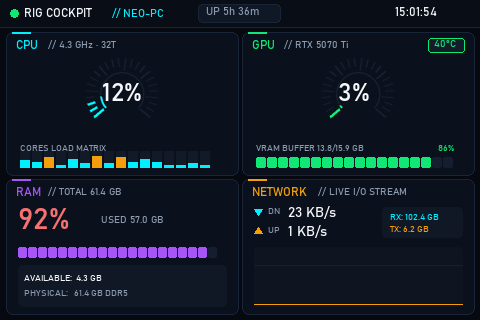
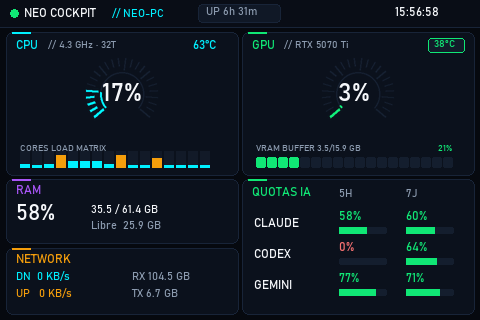
perf(engine): add fluid micro-blit dirty rect updates jumping from 0.5 to 3.5+ FPS

diff --git a/src/engine.py b/src/engine.py
@@ -5,6 +5,7 @@ import signal
 import sys
 import time
 from typing import Optional
+import numpy as np
 
 from src.collectors import SystemCollector, GpuCollector, TelemetrySnapshot
 from src.config import AppConfig
@@ -60,8 +61,12 @@ class TuringCompanionEngine:
                 rotation=self.config.screen.rotation,
             )
 
-        # Update Interval (default: 1.0 second for calm, rock-solid monitoring)
-        self.interval_sec = max(0.5, float(self.config.telemetry.interval_sec or 1.0))
+        # Update Interval (support sub-second high-speed partial updates)
+        self.interval_sec = max(0.05, float(self.config.telemetry.interval_sec or 0.25))
+        self.mode = getattr(self.config.telemetry, "mode", "fluid").lower()
+        self.full_sync_sec = float(getattr(self.config.telemetry, "full_sync_sec", 60.0))
+        self._prev_frame_arr: Optional[np.ndarray] = None
+        self._last_full_sync: float = 0.0
 
     def _setup_signal_handlers(self):
         def _handler(sig, frame):
@@ -101,6 +106,16 @@ class TuringCompanionEngine:
         fps_counter = 0
         t0_fps = time.perf_counter()
 
+        # Cockpit UI quadrants for micro-blit dirty rect tracking
+        zones = [
+            (385, 0, 480, 28),    # Header: Digital Clock
+            (195, 0, 285, 28),    # Header: Uptime Pill
+            (6, 30, 238, 177),    # Card 1: CPU Tachometer, Load Matrix, Temp
+            (242, 30, 474, 177),  # Card 2: GPU Tachometer, Power, VRAM
+            (6, 177, 238, 316),   # Card 3: RAM % + Network Oscilloscope
+            (242, 177, 474, 316), # Card 4: AI Quotas Matrix
+        ]
+
         try:
             while self.running:
                 loop_start = time.perf_counter()
@@ -118,12 +133,65 @@ class TuringCompanionEngine:
                 # 3. Render dashboard frame
                 frame_img = self.renderer.render(snap)
 
-                # 4. Push frame to Turing display
-                success = self.driver.display_pil_image(frame_img)
-                if success:
-                    fps_counter += 1
+                # 4. Push frame to Turing display (Fluid micro-blit or full sync)
+                now_sync = time.perf_counter()
+                use_partial = (
+                    self.mode in ("fluid", "micro_blit", "partial", "turbo")
+                    and hasattr(self.driver, "display_partial")
+                )
+                need_full = (
+                    not use_partial
+                    or self._prev_frame_arr is None
+                    or (now_sync - self._last_full_sync) >= self.full_sync_sec
+                )
+
+                if need_full:
+                    success = self.driver.display_pil_image(frame_img)
+                    if success:
+                        self._prev_frame_arr = np.asarray(frame_img).copy()
+                        self._last_full_sync = now_sync
+                        fps_counter += 1
+                    else:
+                        logger.warning("Full frame send failed. Driver marked disconnected.")
+                        self._prev_frame_arr = None
                 else:
-                    logger.warning("Frame send failed. Driver marked disconnected.")
+                    curr_arr = np.asarray(frame_img)
+                    diff = np.any(curr_arr != self._prev_frame_arr, axis=-1)
+
+                    if np.any(diff):
+                        sent_any = False
+                        all_ok = True
+                        for (zx1, zy1, zx2, zy2) in zones:
+                            sub_diff = diff[zy1:zy2, zx1:zx2]
+                            if np.any(sub_diff):
+                                rows = np.any(sub_diff, axis=1)
+                                cols = np.any(sub_diff, axis=0)
+                                ymin, ymax = np.where(rows)[0][[0, -1]]
+                                xmin, xmax = np.where(cols)[0][[0, -1]]
+
+                                bx1 = zx1 + xmin
+                                by1 = zy1 + ymin
+                                bx2 = zx1 + xmax + 1
+                                by2 = zy1 + ymax + 1
+
+                                sub_img = frame_img.crop((bx1, by1, bx2, by2))
+                                ok = self.driver.display_partial(sub_img, bx1, by1)
+                                if ok:
+                                    sent_any = True
+                                else:
+                                    all_ok = False
+                                    break
+
+                        if all_ok:
+                            self._prev_frame_arr = curr_arr
+                            if sent_any:
+                                fps_counter += 1
+                        else:
+                            logger.warning("Partial frame send failed. Resetting full sync.")
+                            self._prev_frame_arr = None
+                    else:
+                        # Frame identical to previous one, skip hardware write
+                        pass
 
                 # Periodic performance logging (every ~15s)
                 dt_fps = time.perf_counter() - t0_fps
@@ -142,7 +210,7 @@ class TuringCompanionEngine:
 
                 # 5. Paced sleep to match interval precisely
                 elapsed = time.perf_counter() - loop_start
-                sleep_time = max(0.05, self.interval_sec - elapsed)
+                sleep_time = max(0.01, self.interval_sec - elapsed)
                 time.sleep(sleep_time)
 
         except (KeyboardInterrupt, SystemExit):

diff --git a/tests/test_engine.py b/tests/test_engine.py
@@ -1,0 +1,39 @@
+import unittest
+from PIL import Image
+import numpy as np
+
+from src.config import AppConfig, TelemetryConfig
+from src.driver.simulator import SimulatorDriver
+from src.engine import TuringCompanionEngine
+
+
+class EngineTests(unittest.TestCase):
+    def test_simulator_engine_micro_blit(self):
+        config = AppConfig(
+            telemetry=TelemetryConfig(interval_sec=0.1, mode="fluid", full_sync_sec=10.0)
+        )
+        engine = TuringCompanionEngine(config=config, simulate=True)
+        self.assertEqual(engine.interval_sec, 0.1)
+        self.assertEqual(engine.mode, "fluid")
+
+        # Snapshot collect
+        snap = engine._collect_snapshot()
+        self.assertIsNotNone(snap.cpu)
+        self.assertIsNotNone(snap.ram)
+        self.assertIsNotNone(snap.gpu)
+
+        # Render
+        img = engine.renderer.render(snap)
+        self.assertEqual(img.size, (480, 320))
+
+        # Push full initial
+        self.assertTrue(engine.driver.display_pil_image(img))
+        self.assertTrue(hasattr(engine.driver, "display_partial"))
+
+        # Partial blit
+        partial = img.crop((50, 50, 150, 100))
+        self.assertTrue(engine.driver.display_partial(partial, 50, 50))
+
+
+if __name__ == "__main__":
+    unittest.main()

diff --git a/src/driver/turing.py b/src/driver/turing.py
@@ -228,6 +228,9 @@ class TuringRevA:
 
         try:
             w, h = img.size
+            if w <= 0 or h <= 0:
+                return True
+
             if self.rotation == 180:
                 img = img.rotate(180)
                 x = self.width - x - w
@@ -236,8 +239,10 @@ class TuringRevA:
             if img.mode != "RGB":
                 img = img.convert("RGB")
 
-            x0, y0 = x, y
-            x1, y1 = x0 + w - 1, y0 + h - 1
+            x0 = max(0, min(self.width - 1, int(x)))
+            y0 = max(0, min(self.height - 1, int(y)))
+            x1 = max(x0, min(self.width - 1, int(x + w - 1)))
+            y1 = max(y0, min(self.height - 1, int(y + h - 1)))
 
             rgb = np.asarray(img).reshape((-1, 3))
             r = (rgb[:, 0] >> 3).astype(np.uint16)
